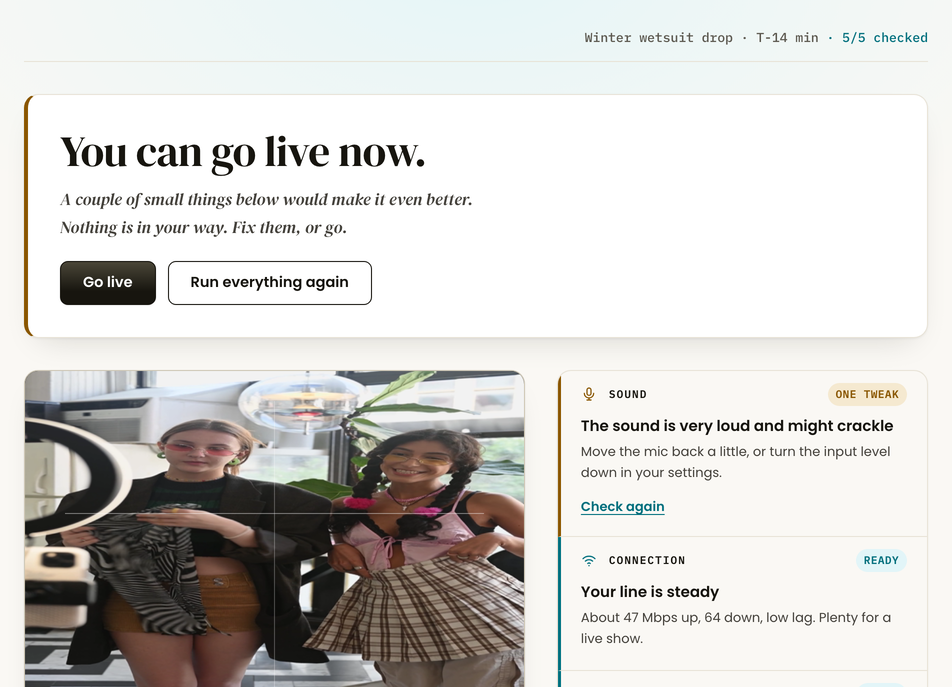
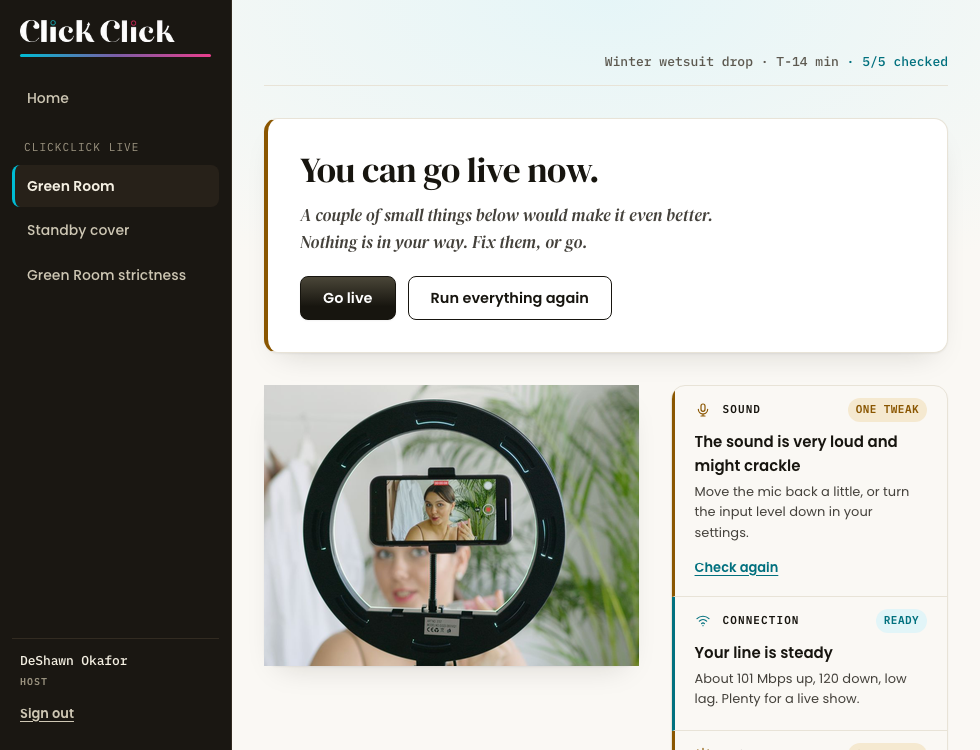
Fix stretched Green Room photo, recomposited properly
The Green Room screenshot's camera photo had somehow ended up as the
shop-player demo video's frame (two women trying on clothes), stretched
to fill the camera box instead of cropped to it - visibly distorted.

Recaptured the real Green Room at its "all 5 checks passed, ready to
go live" state, measured the actual camera element's box from that
live render, and recomposited the original ring-light photo into it
with ImageOps.fit (crop to the box's real aspect ratio) instead of a
plain resize (which stretches). Updated the stale width/height
attributes and the figcaption ("mid-check" was wrong for this state
too) to match.

diff --git a/clickclick-live/index.html b/clickclick-live/index.html
@@ -37,7 +37,7 @@
   <noscript>
     <link href="https://fonts.googleapis.com/css2?family=DM+Serif+Display:ital@0;1&family=Poppins:wght@300;400;500;600;700&display=swap" rel="stylesheet" />
   </noscript>
-  <link rel="stylesheet" href="/styles.css?v=seo11" />
+  <link rel="stylesheet" href="/styles.css?v=seo12" />
   <script type="application/ld+json">
   {
     "@context": "https://schema.org",
@@ -282,8 +282,8 @@
 
     <div class="ccl-shot-row">
       <figure class="doc-shot">
-        <img src="/assets/product/green-room.png" alt="ClickClick Live's Green Room pre-show check mid-way through, showing a host on camera and a checklist for sound, connection, light, frame and brand, and the show" width="1280" height="530" loading="lazy" />
-        <figcaption>The Green Room, mid-check.</figcaption>
+        <img src="/assets/product/green-room.png?v=2" alt="ClickClick Live's Green Room pre-show check, all checks passed and ready to go live, showing a host on camera and a checklist for sound, connection, light, frame and brand, and the show" width="980" height="750" loading="lazy" />
+        <figcaption>The Green Room, all checked and ready.</figcaption>
       </figure>
       <figure class="doc-shot">
         <img src="/assets/product/moderation.png" alt="ClickClick Live's moderation screen: a moderator typing a reply to a comment, alongside the featured product panel and an emergency stop button" width="1280" height="745" loading="lazy" />
